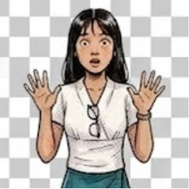
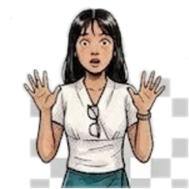
feat: use transparent scared sprites in Nat dialogue and revert altar candle positions

diff --git a/src/components/NatDialogueView.tsx b/src/components/NatDialogueView.tsx
@@ -38,6 +38,7 @@ export interface NatDialogueViewProps {
   setComposure: React.Dispatch<React.SetStateAction<number>>;
   onConcludeAudience: () => void;
   characterName?: string;
+  characterPortrait?: string;
   addDiscoveredClue?: (clueId: string) => void;
   discoveredClues?: string[];
   unlockedClues?: string[];
@@ -153,6 +154,7 @@ export const NatDialogueView: React.FC<NatDialogueViewProps> = ({
   setComposure,
   onConcludeAudience,
   characterName = 'Moe',
+  characterPortrait = '/assets/characters/moe_fear_bust.png',
   addDiscoveredClue,
   discoveredClues = [],
   unlockedClues,
@@ -418,50 +420,42 @@ export const NatDialogueView: React.FC<NatDialogueViewProps> = ({
         }
       `}</style>
 
-      {/* Character Baseline Staging */}
-      <div className="fixed inset-x-0 bottom-0 top-14 z-30 pointer-events-none flex justify-between items-end px-8 md:px-16 pb-28">
-        {/* Left: Player Character (Moe) */}
+      {/* Character Staging — Same Ground Plane, Leveled, Standing in Room */}
+      <div className="fixed inset-x-0 bottom-0 top-14 z-30 pointer-events-none flex justify-between items-end px-8 md:px-16">
+        {/* Left: Player Character (Selected Character) — No label box */}
         <div
-          className={`relative flex flex-col items-center pointer-events-auto transition-all duration-700 ease-out ${
+          className={`relative mb-40 pointer-events-auto transition-all duration-700 ease-out ${
             isDialogueActive ? 'opacity-100 translate-x-0' : 'opacity-0 -translate-x-8'
           }`}
         >
           <img
-            src="/assets/characters/moe_fear_bust.png"
+            src={characterPortrait}
             onError={(e) => {
-              e.currentTarget.src = '/assets/characters/moe_fear_bust.png';
+              e.currentTarget.src = '/assets/msk_2.png';
             }}
             alt={characterName || 'Moe'}
-            className="h-[60vh] max-h-[600px] w-auto object-contain drop-shadow-[0_12px_24px_rgba(0,0,0,0.85)] filter contrast-[1.02] brightness-85"
+            className="h-[50vh] max-h-[520px] w-auto object-contain object-bottom -scale-x-100 drop-shadow-[0_12px_24px_rgba(0,0,0,0.85)] filter contrast-[1.05] brightness-75 saturate-[0.85]"
           />
-          <div className="mt-1 px-3 py-0.5 rounded bg-[#0b120e]/85 border border-[#22352b] text-center">
-            <span className="font-mono text-xs text-[#a3c2b2] tracking-wider uppercase block">
-              {characterName || 'Moe'}
-            </span>
-            <span className="font-mono text-[10px] text-[#5a7a69]">
-              Composure: {composure}%
-            </span>
-          </div>
         </div>
 
-        {/* Right: Imposing Guardian Nat */}
+        {/* Right: Guardian Nat — Larger, Upper Body / Bust Crop */}
         <div
           className={`relative flex flex-col items-center pointer-events-auto transition-all duration-700 ease-out ${
             isDialogueActive ? 'opacity-100 translate-x-0' : 'opacity-0 translate-x-8'
           } ${isShuddering ? 'animate-shudder' : ''}`}
         >
-          <div className="absolute top-1/4 w-72 h-72 rounded-full bg-emerald-500/10 blur-3xl pointer-events-none" />
-          <div className="h-[62vh] max-h-[600px] overflow-hidden flex items-start justify-center">
+          <div className="absolute top-1/3 w-80 h-80 rounded-full bg-emerald-500/10 blur-3xl pointer-events-none" />
+          <div className="h-[70vh] max-h-[680px] overflow-hidden flex items-start justify-center">
             <img
               src={`/assets/characters/guardian_nat_${currentPose || 'warning'}.png`}
               onError={(e) => {
                 e.currentTarget.src = '/assets/characters/guardian_nat_neutral.png';
               }}
               alt="Hostel Guardian Nat"
-              className="h-[85vh] max-h-[780px] w-auto object-cover object-top filter drop-shadow-[0_0_25px_rgba(74,122,96,0.45)] brightness-95"
+              className="h-[95vh] max-h-[900px] w-auto object-cover object-top filter drop-shadow-[0_0_25px_rgba(74,122,96,0.45)] brightness-95"
             />
           </div>
-          <div className="mt-1 px-3 py-0.5 rounded bg-[#0b120e]/85 border border-[#2d4538] text-center">
+          <div className="mt-2 px-3 py-1 rounded bg-[#0b120e]/85 border border-[#2d4538] text-center">
             <span className="font-serif italic text-xs text-[#78b394] tracking-widest block">
               Hostel Guardian Nat
             </span>
@@ -485,7 +479,7 @@ export const NatDialogueView: React.FC<NatDialogueViewProps> = ({
               <div className="flex items-center gap-2">
                 <span className="w-2 h-2 rounded-full bg-[#4a7a60] animate-pulse" />
                 <span className="font-mono text-xs tracking-wider text-[#78b394] uppercase font-semibold">
-                  {currentOpening.speaker}
+                  {currentOpening.speaker === 'Moe' ? characterName : currentOpening.speaker}
                 </span>
                 <span className="font-mono text-[10px] text-[#4e6b5c]">
                   • Step {openingStep + 1} of {OPENING_SEQUENCE.length}
@@ -498,7 +492,7 @@ export const NatDialogueView: React.FC<NatDialogueViewProps> = ({
 
             {/* Spoken Response Container */}
             <div className="py-2 px-1 my-auto">
-              <p className="font-serif italic text-base md:text-lg text-[#dceddf] font-normal tracking-wide leading-relaxed select-none">
+              <p className="font-serif italic font-extralight text-base md:text-lg text-[#dceddf] tracking-wide leading-relaxed select-none">
                 "{currentOpening.text}"
               </p>
             </div>
@@ -590,7 +584,7 @@ export const NatDialogueView: React.FC<NatDialogueViewProps> = ({
                         onClick={() => handlePresentTarget(entry.id, activeTab)}
                         className="w-full text-left p-2.5 rounded-lg bg-[#121c16] hover:bg-[#1c2d23] border border-[#23382b] hover:border-[#3d5e48] text-xs font-mono text-[#d1e6dc] flex items-center justify-between transition-all cursor-pointer group active:scale-[0.99]"
                       >
-                        <span className="group-hover:text-emerald-300 transition-colors">
+                        <span className="group-hover:text-white transition-colors">
                           ❯ {activeTab === 'inventory' ? `Ask about item: ${entry.shortLabel}` : `Ask about note: ${entry.title}`}
                         </span>
                         <span className="text-[10px] font-mono text-red-400/60 group-hover:text-red-300 transition-colors">
@@ -607,7 +601,7 @@ export const NatDialogueView: React.FC<NatDialogueViewProps> = ({
                 <div>
                   <div className="flex items-center justify-between pb-1 mb-2 border-b border-[#1b2b22]">
                     <div className="flex items-center gap-2">
-                      <span className="w-2 h-2 rounded-full bg-emerald-400" />
+                      <span className="w-2 h-2 rounded-full bg-[#4a7a60]" />
                       <span className="font-mono text-xs tracking-wider text-[#78b394] uppercase font-semibold">
                         Hostel Guardian Nat
                       </span>
@@ -619,7 +613,7 @@ export const NatDialogueView: React.FC<NatDialogueViewProps> = ({
 
                   {/* Spoken Response Container */}
                   <div className="py-2 px-1">
-                    <p className="font-serif italic text-base md:text-lg text-[#dceddf] font-normal tracking-wide leading-relaxed select-none min-h-[64px]">
+                    <p className="font-serif italic font-extralight text-base md:text-lg text-[#dceddf] tracking-wide leading-relaxed select-none min-h-[64px]">
                       "{activeResponseText}"
                     </p>
                   </div>

diff --git a/src/components/PrayerAltarView.tsx b/src/components/PrayerAltarView.tsx
@@ -4,6 +4,8 @@ import { sound } from '../audioEngine';
 import { Phase3Location } from '../types';
 import { Flame, Bell, Sparkles } from 'lucide-react';
 import { NatDialogueView } from './NatDialogueView';
+import { getCharacterProfile } from '../characterData';
+import { getCharacterFearBustSrc } from './InkPortrait';
 
 export interface PrayerAltarViewProps {
   composure: number;
@@ -599,20 +601,20 @@ export const PrayerAltarView: React.FC<PrayerAltarViewProps> = ({
               className="absolute -translate-x-1/2 flex flex-col items-center pointer-events-none transition-all duration-500"
               style={{ left: leftOffsets[index], top: '44.5%' }}
             >
-              {/* Animated Pale Blue/Gold Flame */}
+              {/* Animated Pale Blue/Gold Flame — centered directly on wick tip */}
               {isLit && (
-                <div className="relative -mb-1 flex items-center justify-center animate-pulse">
+                <div className="relative flex flex-col items-center justify-end h-5 -mb-1">
                   {/* Outer flame glow */}
-                  <div className="absolute w-6 h-6 rounded-full bg-cyan-400/20 blur-sm" />
+                  <div className="absolute bottom-0 left-1/2 -translate-x-1/2 w-6 h-6 rounded-full bg-cyan-400/20 blur-sm" />
                   {/* Inner flame teardrop */}
-                  <div className="w-2 h-4 rounded-full bg-gradient-to-t from-amber-400 via-yellow-200 to-cyan-100 shadow-[0_0_8px_rgba(100,220,255,0.8)] animate-bounce" />
+                  <div className="relative w-2 h-4 rounded-full bg-gradient-to-t from-amber-400 via-yellow-200 to-cyan-100 shadow-[0_0_8px_rgba(100,220,255,0.8)] animate-pulse" />
                 </div>
               )}
 
               {/* Black Beeswax Candle Body */}
               <div className="w-2.5 h-11 bg-gradient-to-r from-[#1c1c1b] via-[#2c2e2c] to-[#141514] rounded-t-sm shadow-md border-t border-white/10 relative">
-                {/* Wick */}
-                <div className="absolute -top-1 left-1/2 -translate-x-1/2 w-0.5 h-1.5 bg-neutral-900" />
+                {/* Wick — centered on candle top */}
+                <div className="absolute -top-1.5 left-1/2 -translate-x-1/2 w-0.5 h-1.5 bg-neutral-900 rounded-sm" />
               </div>
             </div>
           );
@@ -841,7 +843,8 @@ export const PrayerAltarView: React.FC<PrayerAltarViewProps> = ({
             composure={composure}
             setComposure={setComposure}
             inventory={inventory}
-            characterName="Moe"
+            characterName={getCharacterProfile(selectedCharacterId || 'moe_stheinkha').name}
+            characterPortrait={getCharacterFearBustSrc(selectedCharacterId || 'moe_stheinkha')}
             onConcludeAudience={handleConcludeNatAudience}
             addDiscoveredClue={addDiscoveredClue}
             discoveredClues={discoveredClues}

diff --git a/src/components/InkPortrait.tsx b/src/components/InkPortrait.tsx
@@ -39,6 +39,28 @@ export const getCharacterPortraitSrc = (characterId?: string): string => {
   return portraitByCharacter[normalizedId] || mjPortrait;
 };
 
+// Fear / scared bust resolver using each character's <code>_2.png shocked asset.
+export const getCharacterFearBustSrc = (characterId?: string): string => {
+  const normalizedId = (characterId || '').toLowerCase();
+  const codeByCharacter: Record<string, string> = {
+    ye_yint_hein: 'yyh',
+    kyaw_swar: 'yyh',
+    moe_stheinkha: 'msk',
+    thazin: 'msk',
+    hsu_myat_shein: 'hms',
+    aye_aye: 'hms',
+    yin_min_htike: 'ymh',
+    htet: 'ymh',
+    may_jewel: 'mj',
+    su_su: 'mj',
+    mona: 'mt',
+    min_khant: 'mt',
+    mama_may: 'mj',
+  };
+  const code = codeByCharacter[normalizedId] || 'mj';
+  return `/assets/${code}_2.png`;
+};
+
 export const InkPortrait: React.FC<InkPortraitProps> = ({
   characterId = 'may_jewel',
   speakerName,
